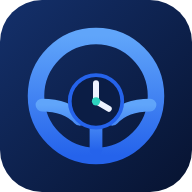
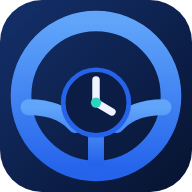
Більший логотип на іконці головного екрана і в заголовку
Claude-Session: https://claude.ai/code/session_01PguobeeSzLSgoPXWBv3mS7

diff --git a/site/index.html b/site/index.html
@@ -6,14 +6,14 @@
   <meta name="theme-color" content="#071330">
   <title>Driver-Aps</title>
   <link rel="manifest" href="manifest.webmanifest">
-  <link rel="icon" href="icon.svg" type="image/svg+xml">
-  <link rel="apple-touch-icon" href="apple-touch-icon.png">
+  <link rel="icon" href="icon.svg?v=2" type="image/svg+xml">
+  <link rel="apple-touch-icon" href="apple-touch-icon.png?v=2">
   <meta name="apple-mobile-web-app-title" content="Driver-Aps">
   <link rel="stylesheet" href="style.css">
 </head>
 <body>
   <header class="top">
-    <h1 class="brand"><img src="icon.svg" alt="" width="36" height="36">Driver-Aps</h1>
+    <h1 class="brand"><img src="icon.svg" alt="" width="44" height="44">Driver-Aps</h1>
     <div id="userChip" class="user" hidden>
       <span id="userName"></span>
       <button id="logoutBtn" class="btn small">Вийти</button>

diff --git a/site/style.css b/site/style.css
@@ -122,7 +122,7 @@ dialog input {
 #waitView .btn { margin-top: 8px; }
 
 .brand { display: flex; align-items: center; gap: 10px; }
-.brand img { width: 36px; height: 36px; border-radius: 9px; flex: none; }
+.brand img { width: 44px; height: 44px; border-radius: 11px; flex: none; }
 
 #authView label.check { display: flex; align-items: center; gap: 10px; color: var(--text); font-size: 15px; cursor: pointer; margin: 4px 0 8px; }
 #authView label.check input { width: 22px; height: 22px; margin: 0; padding: 0; accent-color: var(--accent); flex: none; }

diff --git a/site/sw.js b/site/sw.js
@@ -1,4 +1,4 @@
-const CACHE = 'driver-time-v8';
+const CACHE = 'driver-time-v9';
 const FILES = ['./', 'index.html', 'style.css', 'src/app.js', 'src/time.js', 'src/report.js', 'src/cloud.js', 'src/manager.js', 'src/firebase-config.js',
   'vendor/firebase.js', 'manifest.webmanifest', 'icon.svg',
   'icon-192.png', 'icon-512.png', 'icon-maskable-512.png', 'apple-touch-icon.png'];
